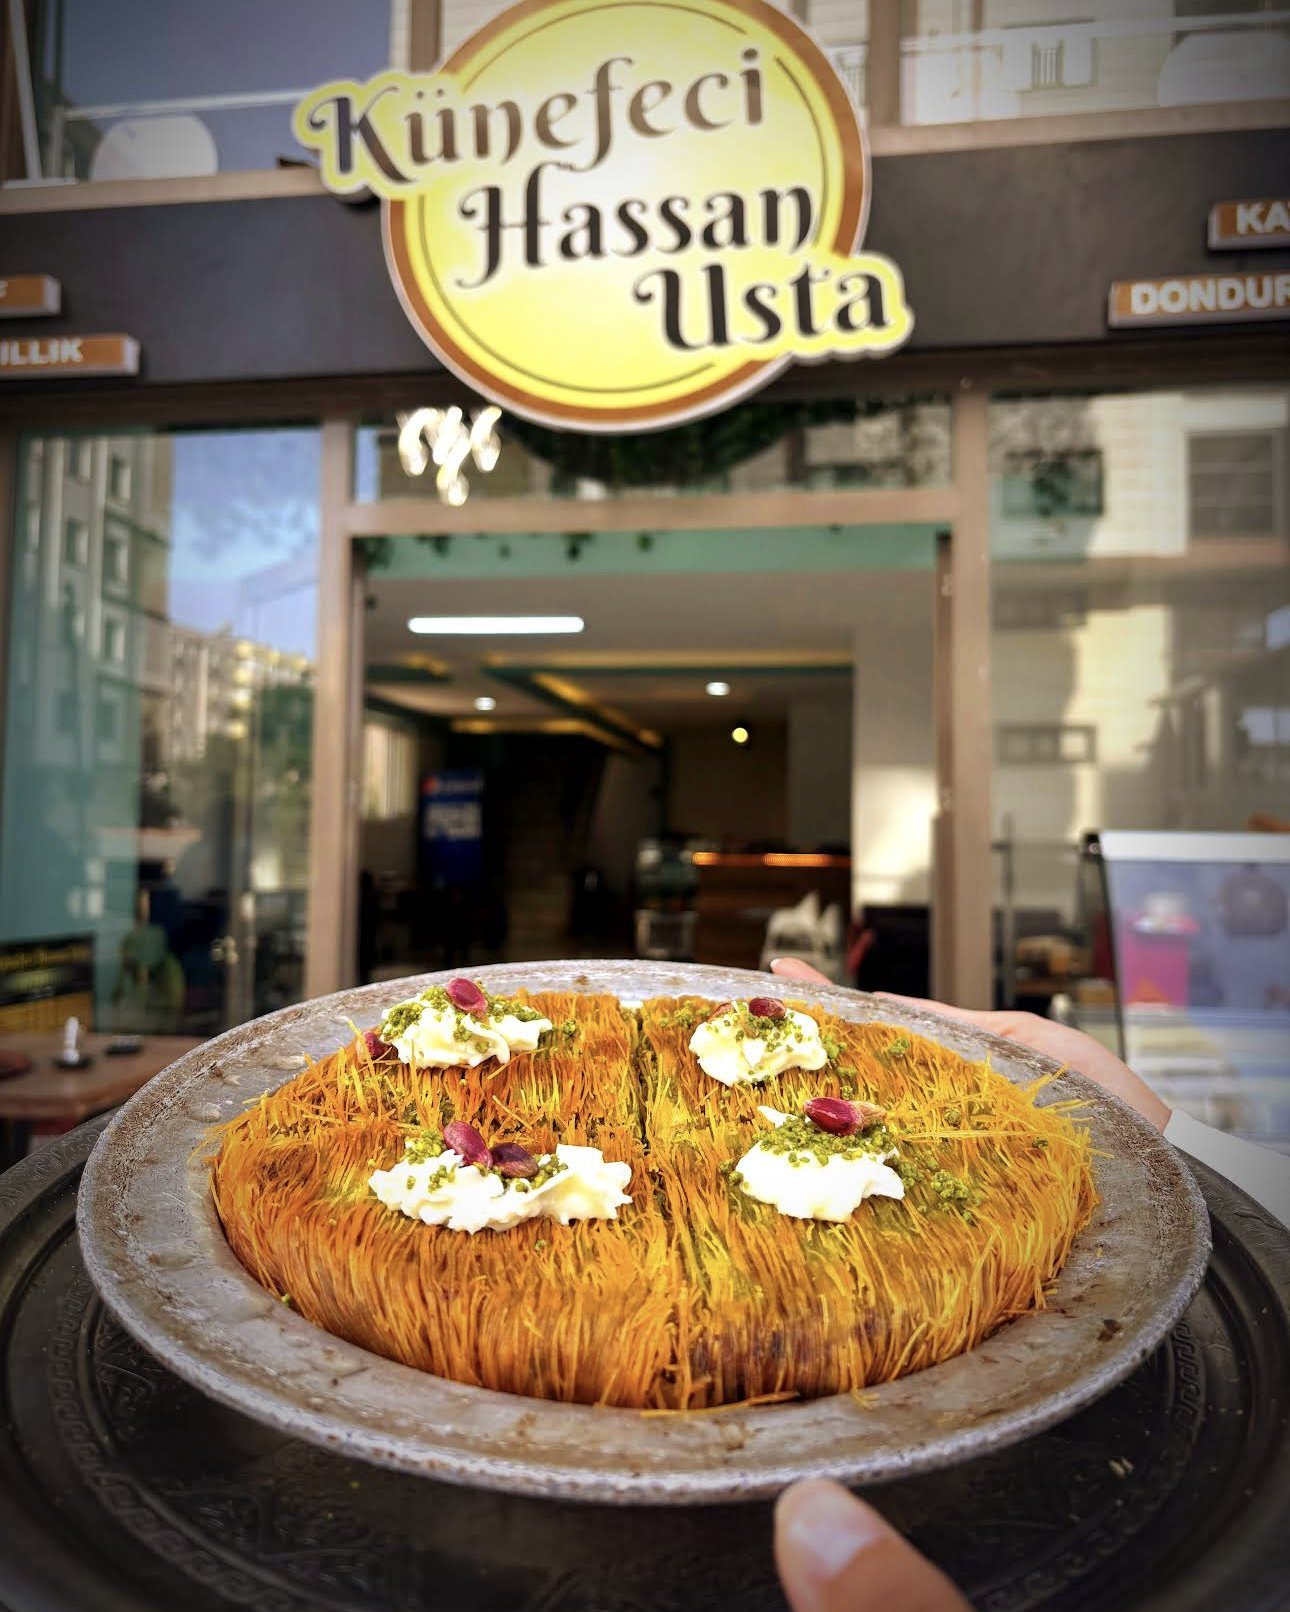
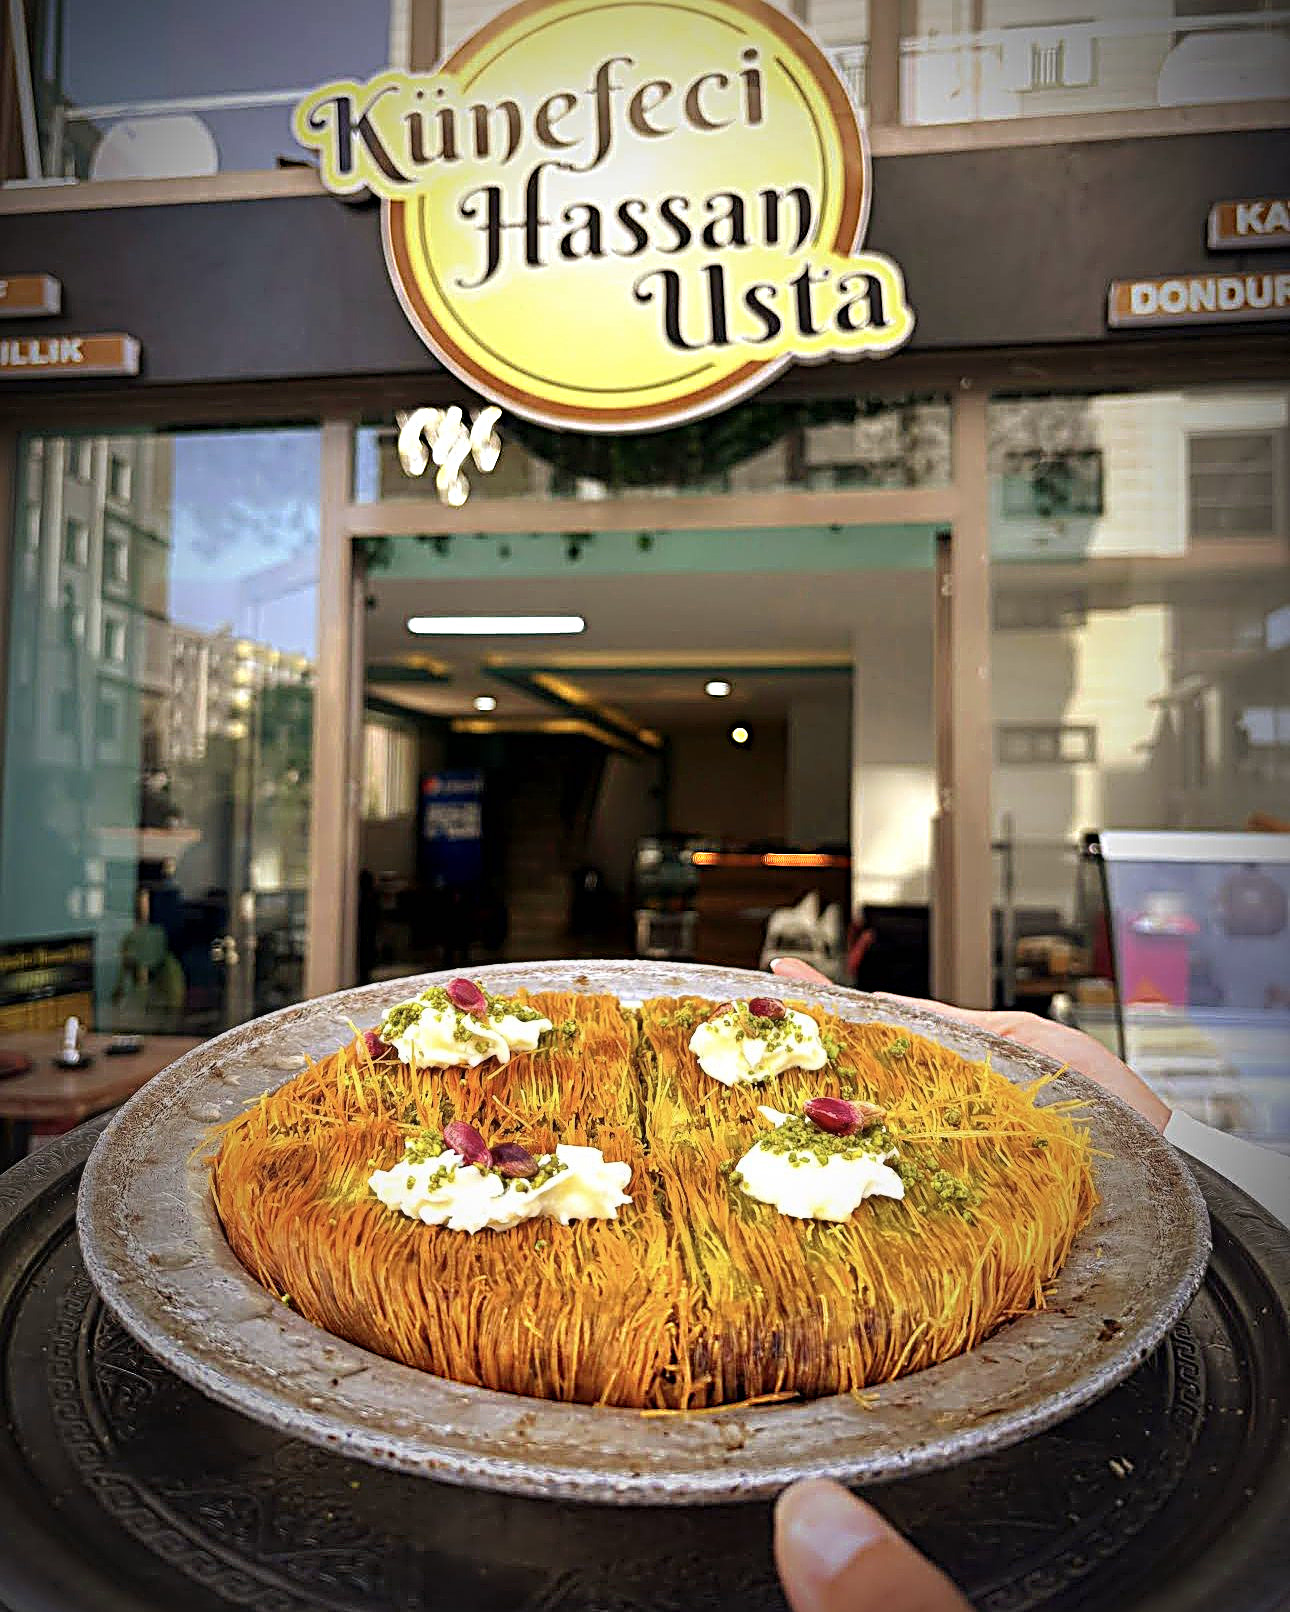
Dükkân fotoğrafı net: arka plan keskinleştirildi, büyük boyutta ve yüksek kalitede
Fotoğraf portre modunda çekildiği için tabela ve dükkân bulanıktı. Künefeye
dokunmadan yalnızca bulanık arka plan hafifçe keskinleştirildi. Ana sayfanın
üstündeki fotoğraf artık 85 kaliteyle yükleniyor.

Claude-Session: https://claude.ai/code/session_01MTwCZDYWE98LuunzjT45uv

diff --git a/kunefeci-hassan-usta/src/components/ui.tsx b/kunefeci-hassan-usta/src/components/ui.tsx
@@ -35,6 +35,7 @@ export function Photo({
   className = "",
   preload,
   fill,
+  quality,
 }: {
   photo?: string;
   alt: string;
@@ -42,9 +43,21 @@ export function Photo({
   className?: string;
   preload?: boolean;
   fill?: boolean;
+  /** 85 for a large photo that fills the screen (the shop on the home page); the default 75 elsewhere. */
+  quality?: 75 | 85;
 }) {
   if (photo && isUploadedPhoto(photo)) {
-    return <Image src={photo} alt={alt} fill sizes={sizes} preload={preload} className={`object-cover ${className}`} />;
+    return (
+      <Image
+        src={photo}
+        alt={alt}
+        fill
+        sizes={sizes}
+        preload={preload}
+        quality={quality}
+        className={`object-cover ${className}`}
+      />
+    );
   }
   const key = photo && isPhotoKey(photo) ? photo : undefined;
   const src = key ? photos[key] : undefined;
@@ -57,6 +70,7 @@ export function Photo({
         sizes={sizes}
         placeholder="blur"
         preload={preload}
+        quality={quality}
         className={`object-cover ${className}`}
       />
     );

diff --git a/kunefeci-hassan-usta/src/app/[locale]/page.tsx b/kunefeci-hassan-usta/src/app/[locale]/page.tsx
@@ -49,6 +49,7 @@ export default async function HomePage({ params }: PageProps<"/[locale]">) {
               alt={dict.home.shopPhoto}
               sizes="(min-width: 1024px) 40rem, 100vw"
               preload
+              quality={85}
               className="animate-settle -z-10 object-[50%_30%] brightness-120"
             />
             <div

diff --git a/kunefeci-hassan-usta/src/assets/photos/KAYNAKLAR.md b/kunefeci-hassan-usta/src/assets/photos/KAYNAKLAR.md
@@ -1,7 +1,10 @@
 # Fotoğraf kaynakları
 
 `dukkan.jpg` (dükkânın önü ve kaymaklı künefe) ile `kunefe3.jpg` (aynı fotoğraftaki
-künefe tepsisi) Künefeci Hassan Usta'nın kendi fotoğrafıdır. Diğer fotoğraflar
+künefe tepsisi) Künefeci Hassan Usta'nın kendi fotoğrafıdır. `dukkan.jpg` portre
+modunda çekildiği için arkadaki tabela ve dükkân bulanıktı; künefeye dokunmadan
+yalnızca arka plan hafifçe keskinleştirildi. Net çekilmiş yeni bir dükkân fotoğrafı
+gelirse aynı adla üzerine kaydedin, ayrıca bir işlem gerekmez. Diğer fotoğraflar
 dükkânın kendi fotoğrafları değildir; site hazırlanırken
 yer tutması için ücretsiz stok sitelerinden alındı. Hepsi ticari kullanıma açık
 lisanslıdır (Pexels Lisansı / Unsplash Lisansı, atıf zorunlu değil). Sitenin alt
